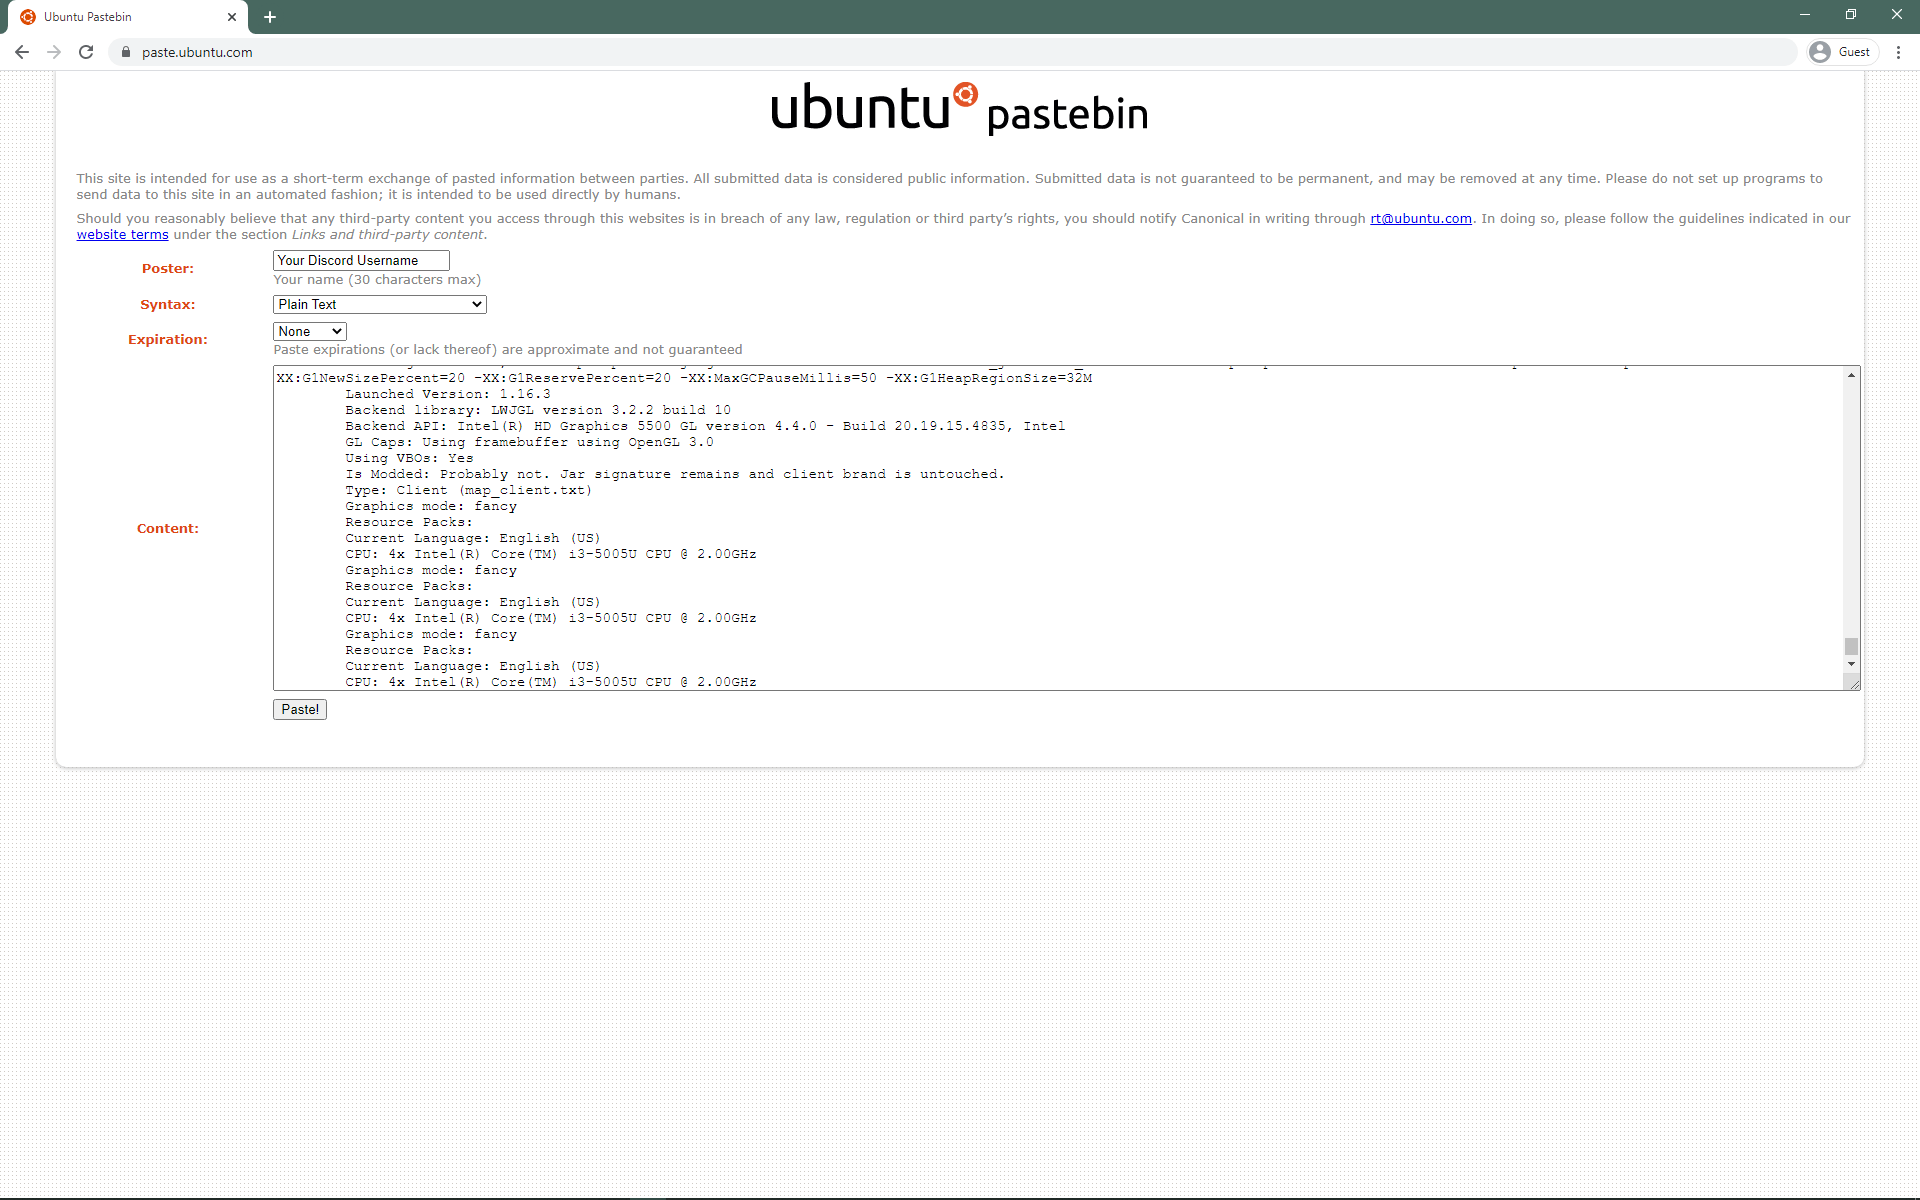
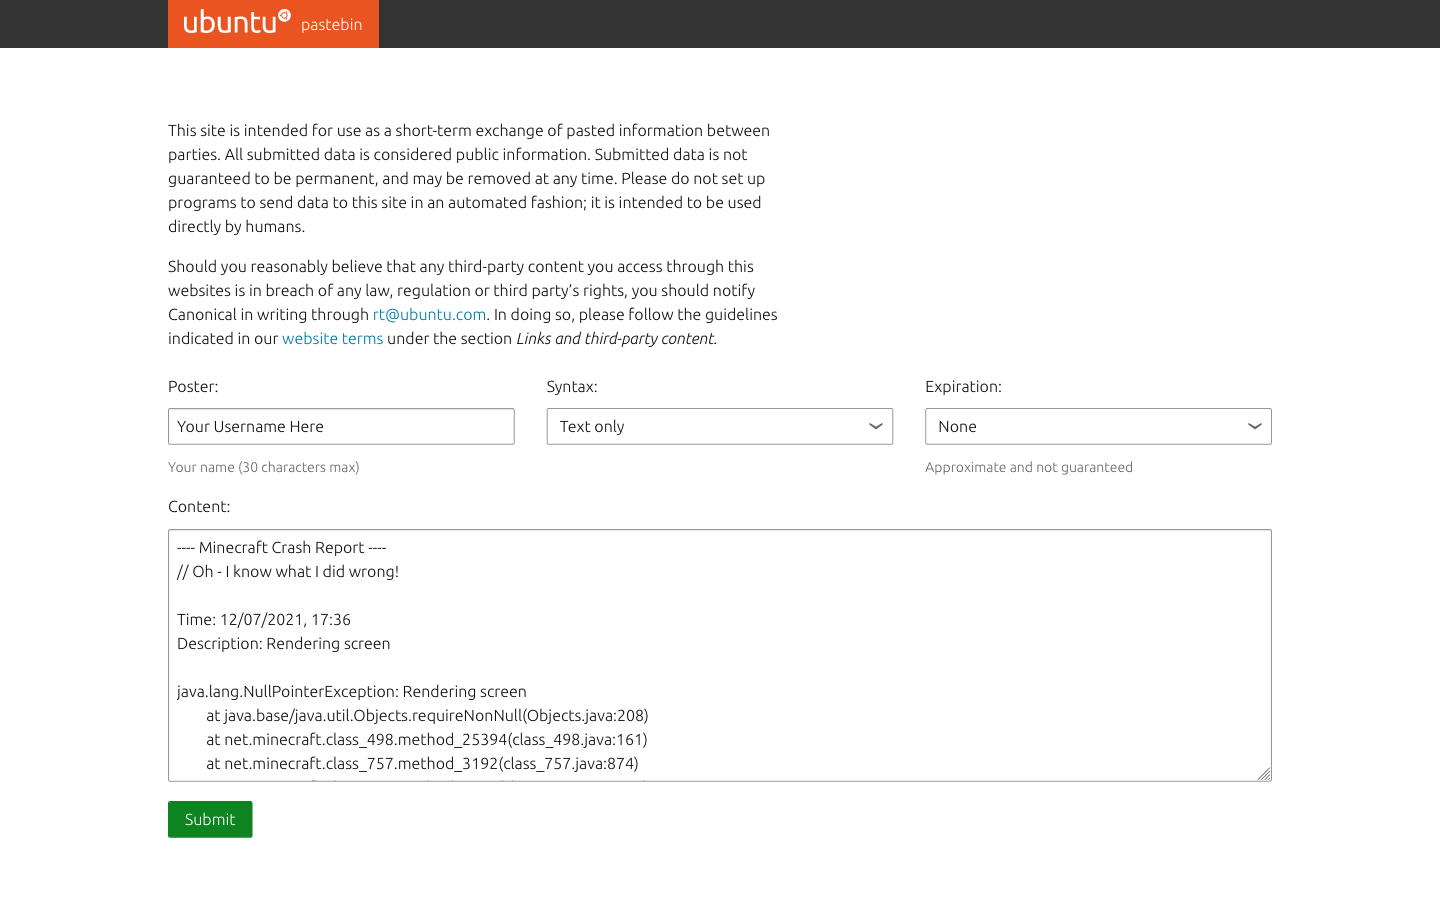
Update Ubuntu Paste screenshots for Crash reports

diff --git a/_help/guides/getting-minecraft-crash-report/index.md b/_help/guides/getting-minecraft-crash-report/index.md
@@ -39,12 +39,12 @@ Select the entire contents (**Ctrl-A** or **Cmd-A**) of the file and copy it (**
 
 #### Step 4
 
-Open (https://paste.ubuntu.com) and paste (**Ctrl-V** or **Cmd-V**) the contents into the **'Contents'** field. Put your Discord username into the **'Poster'** field.
+Open (https://paste.ubuntu.com) and paste (**Ctrl-V** or **Cmd-V**) the contents into the **'Content'** field. Put your Discord username into the **'Poster'** field.
 ![Ubuntu Pastebin site filled out](/static/images/help/guides/getting-minecraft-crash-report/ubuntu-crash-report.png)
 
 #### Step 5
 
-Click **Paste!**. On the next page, copy the URL from the address bar and give it to whoever requested the log. Wait for further instructions.
+Click **Submit**. On the next page, copy the URL from the address bar and give it to whoever requested the log. Wait for further instructions.
 ![Ubuntu Pastebin site with pasted data and URL](/static/images/help/guides/getting-minecraft-crash-report/ubuntu-crash-report-url.png)
 
 ## Troubleshooting
